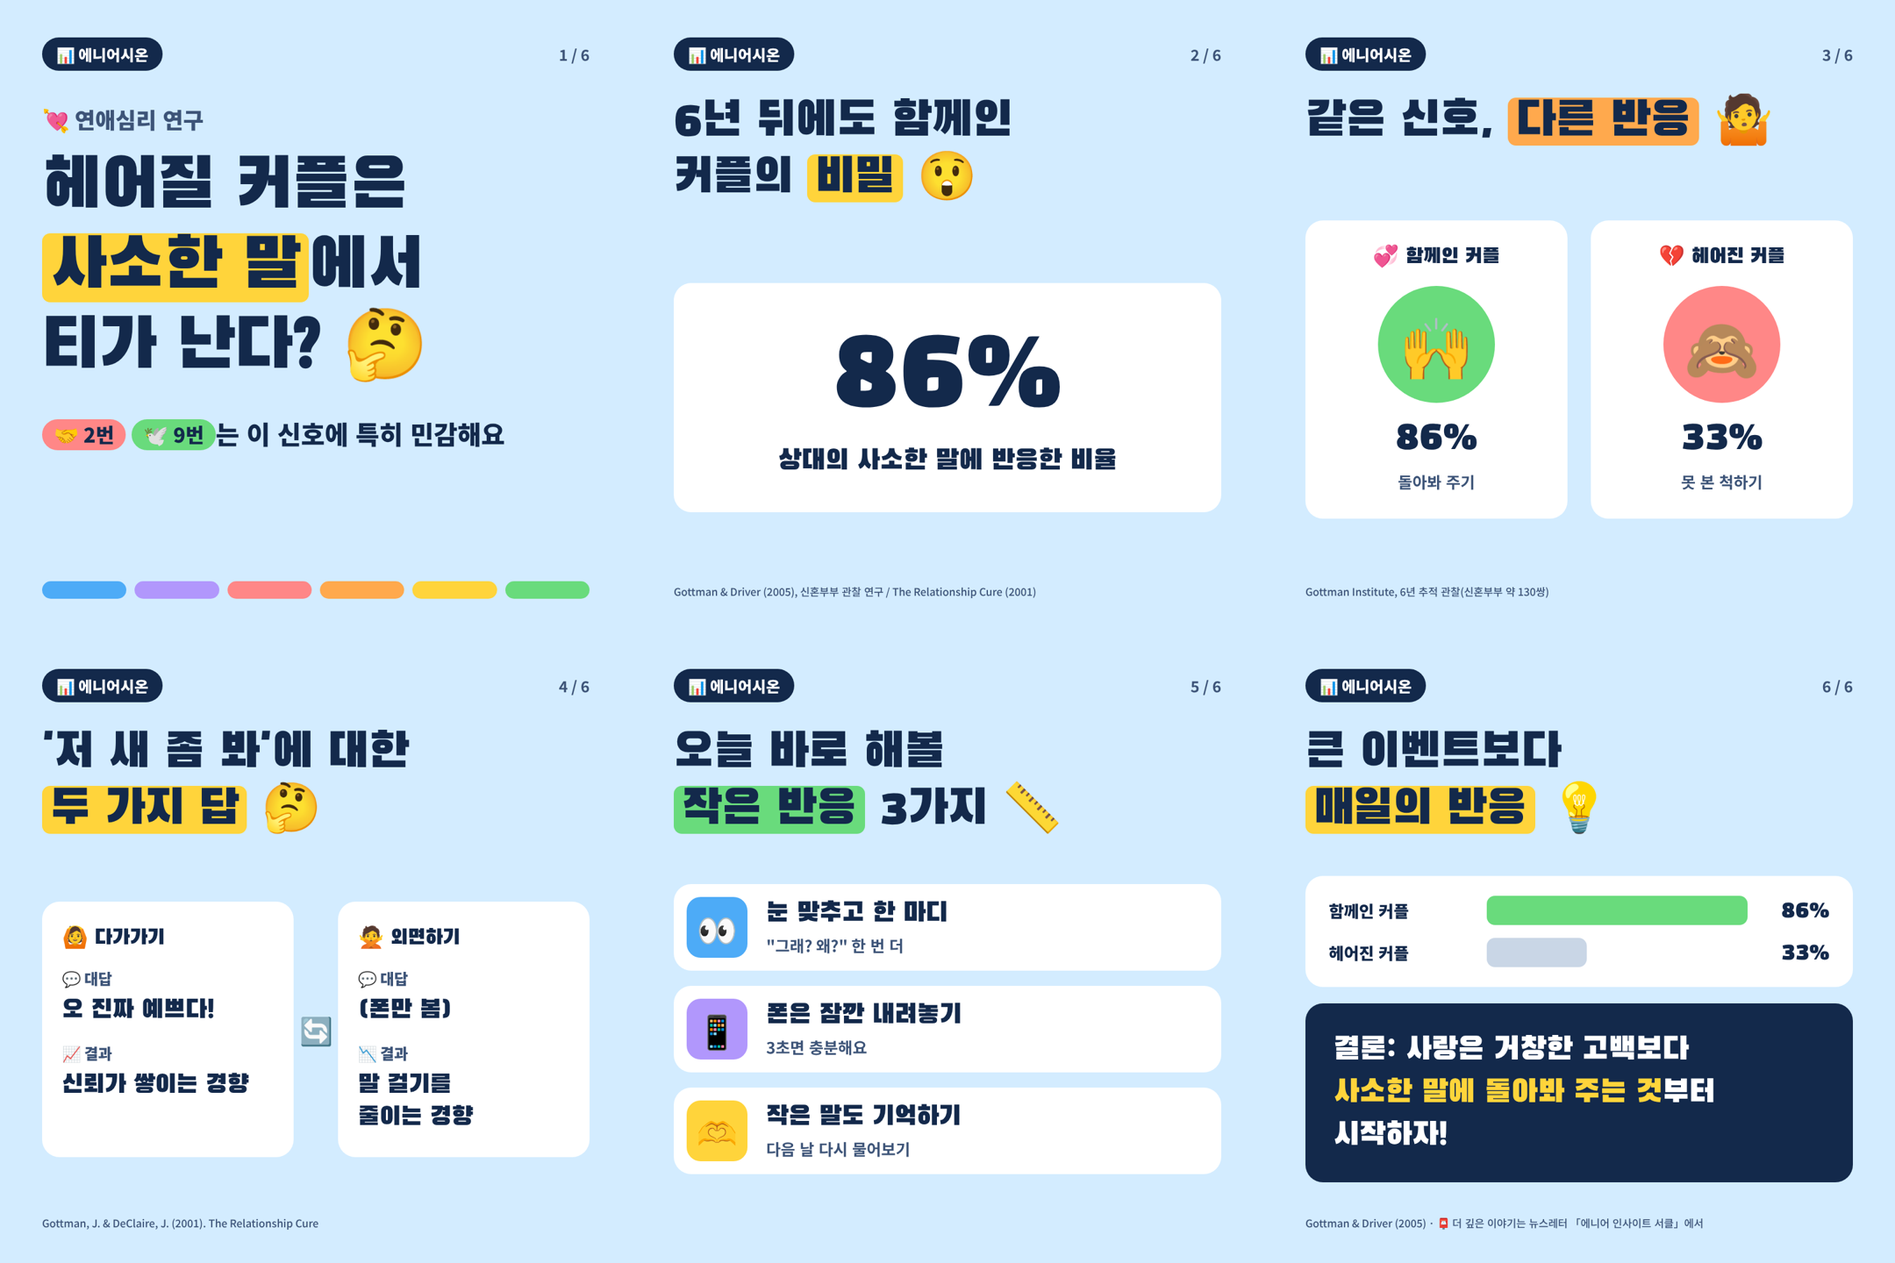
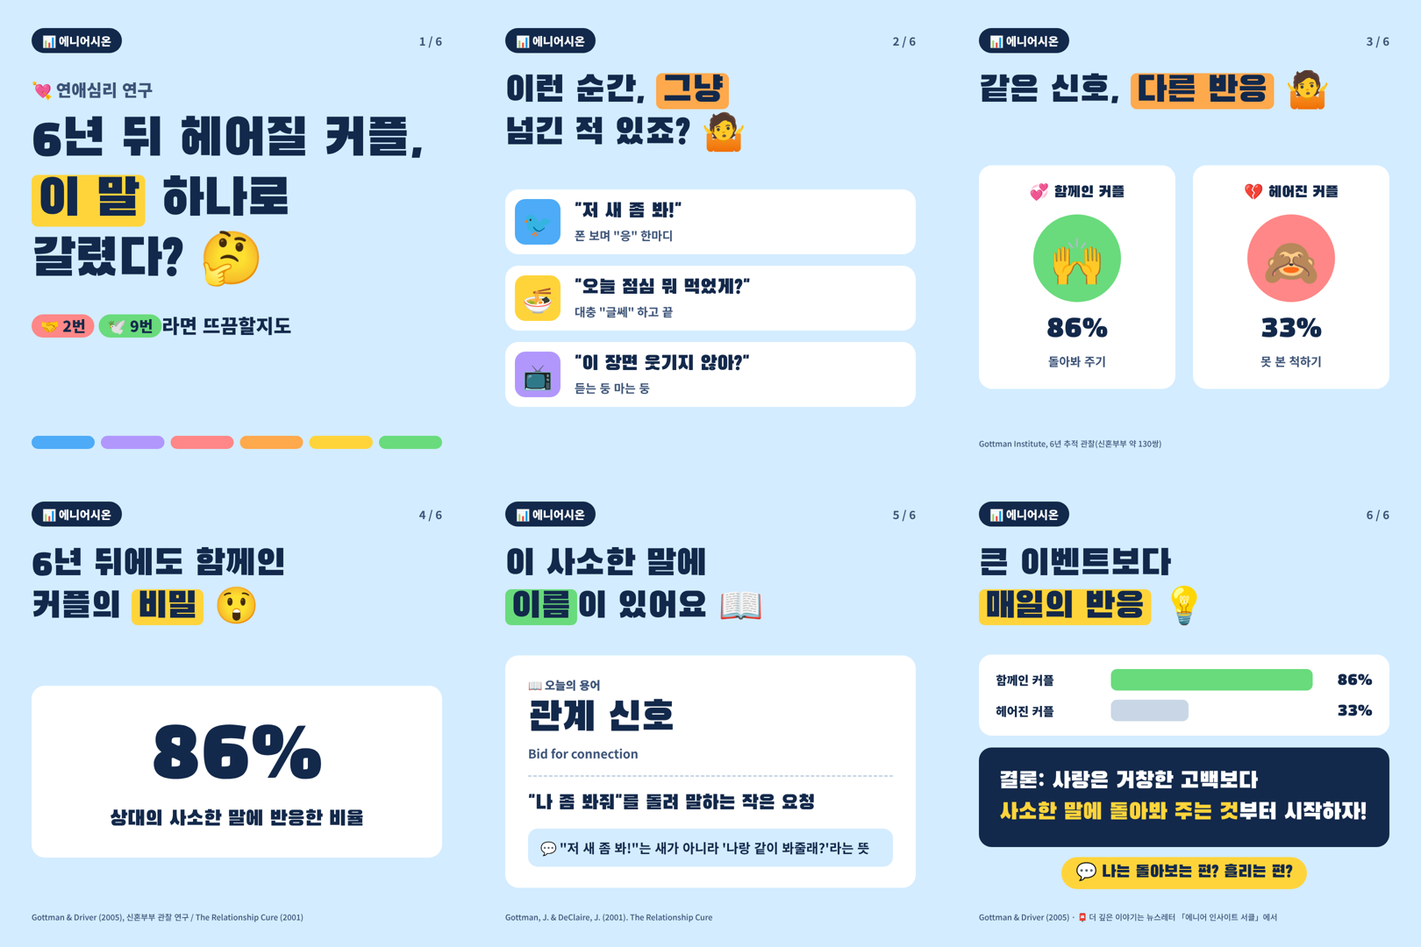
feat: 궁금증→반전·근거→용어 설명→댓글·뉴스레터 흐름으로 개편
- 주제 선정: 후보 5개를 공감·궁금증·반전·댓글성으로 점수 매겨 선택
- 카드 흐름: 표지는 답 없이 궁금증만, 반전·근거는 중반 이후 공개
- term(용어 설명) 카드 추가, 결론 카드에 댓글 질문 줄 추가
- 게시글에 뉴스레터 예고(카드에서 남겨둔 질문) 추가

Claude-Session: https://claude.ai/code/session_01AA3Yp29V6RG1PMxWY8ZBQU

diff --git a/bot/generate.py b/bot/generate.py
@@ -25,60 +25,80 @@ LENSES = [
 ]
 
 RESEARCH_SYSTEM = """\
-너는 유튜브·인스타 채널 '에니어시온'(에니어그램·융 심리학·연애심리 코치 박시온)의 카드뉴스 리서처다.
-매일 아침 한 편, 사람들이 '어 이거 내 얘기인데?' 하고 댓글로 자기 썰·사례·의견을 꺼내고 싶어지는 주제를 고른다.
+너는 유튜브·인스타 채널 '에니어시온'(에니어그램·융 심리학·연애심리 코치 박시온)의 카드뉴스 기획자 겸 리서처다.
+목표는 하나: 피드를 넘기던 사람이 멈춰서 끝까지 넘겨 보고, 댓글로 자기 썰을 풀고, 뉴스레터까지 궁금해지게 만드는 주제를 찾는 것.
 
-주제 기준
-- 일상의 고민·궁금증에서 출발한다 (서운함, 읽씹, 미루기, 연애 패턴, 첫인상, 질투, 이별 후 연락 등).
-- 근거가 분명해야 한다: 실제 논문·책·공신력 있는 기관 자료. 블로그 재인용만 있는 숫자는 쓰지 않는다.
-- 카드로 보여줄 수 있는 '숫자' 또는 '대비(A vs B)'가 하나 이상 있으면 좋다.
-- 에니어그램 유형과 자연스럽게 연결할 수 있으면 연결 포인트를 1~2개 적되, 연구가 유형을 직접 다룬 게 아니면 '해석'이라고 분명히 표시한다.
-- 최근에 다룬 주제와 겹치지 않는다.
+[좋은 주제의 조건] 아래 4가지를 모두 갖춰야 한다.
+1. 공감: '어 이거 내 얘긴데?' — 누구나 겪어 본 구체적인 장면에서 출발한다.
+   (읽씹, 썸에서 갑자기 식는 순간, 헤어진 연인이 생각나는 밤, 친구 연애엔 훈수 잘 두는데 내 연애는 엉망, 첫 데이트 몇 분 만에 결정되는 호감, 좋아하면 오히려 차갑게 구는 사람, 싸울 때마다 같은 패턴, 혼자가 편한데 외로운 마음, 칭찬은 못 믿고 비판만 기억나는 이유 …)
+2. 궁금증: 그 장면에 '왜 그럴까?' 하는 질문이 생기는데, 사람들이 답을 정확히 모른다.
+3. 반전 또는 근거: 그 답이 통념과 다르거나, 숫자·실험 장면처럼 '오 진짜?' 할 근거가 있다.
+4. 댓글성: 읽은 사람이 '나는 A쪽', '내 전 애인이 딱 이랬음'처럼 한 줄로 쉽게 참여할 수 있다.
+위 예시는 감을 잡기 위한 것이다. 그대로 쓰지 말고 매번 새로운 장면을 찾는다.
 
-조사 방법
-- web_search로 후보를 찾고, 핵심 숫자는 원문(논문 초록, 기관 페이지, 출판사 페이지)을 web_fetch로 열어 확인한다.
-- 확인하지 못한 숫자는 '미확인'이라고 적는다. 지어내지 않는다.
+[피할 주제] 교과서 개념 소개형(○○ 이론이란?), 결론이 뻔한 것(소통이 중요하다), 숫자만 있고 장면이 없는 것, 최근에 다룬 주제와 겹치는 것.
 
-출력 (한국어, 마크다운)
-1. 선정 주제 한 줄 + 왜 사람들이 댓글을 달고 싶어할지
-2. 핵심 사실 목록: 각 항목마다 숫자/주장, 표본 수, 연도, 저자, 출처 URL, 확인 여부
-3. 카드로 쓸 대비·반전 포인트 2~3개
-4. 에니어그램 연결 포인트(있다면) — 연구 결과인지 해석인지 표시
-5. 댓글 유도 질문 후보 3개
+[진행]
+1. 먼저 후보 5개를 떠올리고 각각 공감·궁금증·반전·댓글성을 5점 만점으로 매긴다. 가장 높은 것을 고른다.
+2. web_search로 근거(논문·책·공신력 있는 기관 자료)를 찾고, 핵심 숫자는 원문(논문 초록, 기관·출판사 페이지)을 web_fetch로 열어 확인한다. 블로그 재인용만 있는 숫자는 쓰지 않는다.
+3. 확인하지 못한 숫자는 '미확인'이라고 적는다. 지어내지 않는다.
+
+[출력] 한국어 마크다운
+1. 후보 5개와 점수표, 선정 이유
+2. 훅: 사람들이 품을 '왜?' 질문 한 줄 + 그걸 떠올리게 할 일상 장면 2~3개
+3. 답과 반전: 통념은 무엇이고 실제 근거는 무엇을 보여주는가
+4. 핵심 사실 목록: 숫자/주장, 표본 수, 연도, 저자, 출처 URL, 확인 여부
+5. 설명할 용어 하나(심리학 개념 또는 에니어그램 용어): 이름, 원어, 쉬운 뜻풀이, 일상 예시
+6. 에니어그램 연결 포인트 1~2개 — 연구 결과인지 시온식 해석인지 표시
+7. 댓글 질문 후보 3개(고르기 쉬운 선택지형)
+8. 뉴스레터에서 더 깊게 다룰 만한 질문 하나(카드에선 일부러 남겨둘 것)
 """
 
 COMPOSE_SYSTEM = """\
 너는 '에니어시온' 카드뉴스 에디터다. 리서치 노트만 근거로 1080×1080 카드뉴스 5~7장과 게시글 문구를 만든다.
 
-[장 구성] cover 1장 → 본문 3~5장 → conclusion 1장. 본문 패턴은 내용에 맞게 고른다:
-- compare(나란히 비교): 두 자료·두 반응이 다른 답을 낼 때. boxes 2개, 각 박스 rows 1~3개(badge 예: '🥇 1위', '🫥 꼴찌', '💬 대답').
-- vs(VS 원형): 한 대상의 두 결과. boxes 2개, 각 박스 emoji + big(숫자/%) + sub.
-- chips(그룹 칩): 항목이 많을 때. groups 1~3개, chips 각 2~6개, 주인공 항목만 highlight.
-- list(아이콘 리스트): 이유·방법 3가지. items 정확히 3개.
-- stat(큰 숫자): 숫자 하나가 메시지일 때. 덱에 최대 1장.
-- conclusion: 마지막 장. bars(선택, 2~4개; 강조 막대만 color) + message.
+[이야기 흐름] 카드는 넘길수록 궁금해지게, 답은 늦게 준다.
+1장 cover — 궁금증 유발. 일상 장면 + '왜?' 질문. 답은 절대 주지 않는다. question 줄에 유형 알약 {tN} 1~2개.
+2장 — 공감·통념. '이런 적 있죠?' 장면이나 대부분이 믿는 통념. 아직 답 주지 않기. (list: 공감 장면 3개 / compare: 통념 vs 의외의 질문 / stat: 놀라운 숫자로 궁금증 키우기)
+3~4장 — 반전 공개와 근거. 숫자·실험 장면으로 '오 진짜?' (vs / compare / stat / chips)
+5장 근처 — 왜 그런지 이론 간단 설명. term 패턴으로 용어 하나를 쉬운 말 + 일상 예시로. (학자 이름은 source 줄에만)
+마지막 conclusion — 결론 한 문장 + comment_prompt(댓글 유도 한 줄).
+5장 덱이면 2장과 3장을 합치고, 7장 덱이면 근거 카드를 하나 더 넣는다.
+
+[패턴]
+- compare: boxes 2개, 각 박스 rows 1~3개(badge 예: '🥇 1위', '💬 대답', '🤔 통념', '🔬 실제').
+- vs: boxes 2개, 각 박스 emoji + big(숫자/%) + sub.
+- chips: groups 1~3개, chips 각 2~6개, 주인공 항목만 highlight.
+- list: items 정확히 3개.
+- stat: 숫자 하나가 메시지일 때. 덱에 최대 1장.
+- term: 덱에 정확히 1장. term(10자 이내), term_origin(원어, 선택), term_def(25자 안팎 쉬운 뜻), term_example(일상 장면 한 줄).
+- conclusion: bars(선택, 2~4개; 강조 막대만 color) + message + comment_prompt.
 
 [텍스트 마크업] [[핵심어]] 제목 형광펜(카드당 한 군데, highlight_color yellow/orange/green), {t4} 유형 알약, {{단어}} 결론 박스 노랑 글자, \\n 줄바꿈.
 
 [카피 규칙]
-- 한 장에는 한 메시지. 제목은 3초 안에 읽히게. cover 제목은 3줄 질문형(줄당 7자 안팎), 나머지 제목은 최대 2줄(줄당 11자 안팎).
-- 제목은 질문형이나 반전형. 숫자가 있으면 제목이나 큰 글자에 올린다.
+- 한 장에는 한 메시지. 제목은 3초 안에 읽히게. cover 제목은 3줄(줄당 7자 안팎), 나머지 제목은 최대 2줄(줄당 11자 안팎).
+- 제목은 질문형이나 반전형. 앞 카드 제목이 다음 카드를 넘기게 만드는 질문이면 더 좋다.
+- 숫자가 있으면 제목이나 큰 글자에 올린다.
 - 제목 끝에 감정 이모지 하나(😲 🤔 🤷 📏 💡 등). 박스·라벨 앞에는 의미 이모지 하나. 한 줄에 이모지 최대 2개, 문장 중간에는 넣지 않는다.
-- 주어를 구체적으로("같은 질문, 정반대의 답" → "사이트마다 정반대의 결과"). 말하듯 짧게. 기호(=, →) 대신 짧은 문장.
-- 단정 대신 경향("~를 고르는 경향"). 라벨은 뜻이 분명한 말로.
+- 주어를 구체적으로. 말하듯 짧게. 기호(=, →) 대신 짧은 문장. 단정 대신 경향('~하는 경향').
 - 한 박스에 문장은 한 줄, 보조 설명(sub)은 15자 안팎. list의 main은 14자 이내.
 - 표본 수는 '약 19만 명'처럼 둥글게, 정확한 수는 source 줄에.
-- 학자 이름·전문용어는 카드 본문에 쓰지 않는다(source 줄은 예외).
+- 학자 이름은 카드 본문에 쓰지 않는다(source 줄은 예외). 전문용어는 term 카드 한 장에서만 쉽게 풀어 쓴다.
 - conclusion message는 '결론:'으로 열고 청유형으로 맺는다(…하자!). 핵심어만 {{ }}.
-- cover question에는 관련 유형 알약 {tN}을 1~2개 넣어 에니어그램 독자를 끌어들인다. 연구가 유형을 직접 다루지 않았다면 '~일 수도?', '~는 특히 공감할지도' 같은 열린 표현으로.
+- comment_prompt는 25자 이내, 한 줄로 답할 수 있는 선택형. 예) '💬 나는 연락형? 공간형?', '💬 내 유형은 어땠는지 댓글로!'
+- 연구가 유형을 직접 다루지 않았다면 유형 연결은 '~일 수도?', '~는 특히 공감할지도' 같은 열린 표현으로.
 - 해석·주장만 있는 카드는 source를 null로 둔다. 숫자가 있는 카드는 반드시 source.
 
 [에니어그램 용어] 1-분노, 2-자만(교만 아님), 3-기만, 4-시기(질투 아님), 5-탐욕, 6-두려움, 7-탐닉, 8-욕망(정욕 아님), 9-나태.
 유형 이름: {type_names}
 
-[게시글] hook_line1 = 독자가 들어봤을 통념, hook_line2 = 그걸 뒤집는 숫자나 반전(더보기 전에 보이는 2줄).
-summary_bullets 3~4줄(이모지 불릿). engagement_question 1개: 독자가 자기 연애·관계 썰이나 자기 유형 경험을 쉽게 꺼낼 수 있는 구체적인 질문(예/아니오로 끝나지 않게).
-hashtags 3~5개, instagram_hashtags 8~12개.
+[게시글]
+- hook_line1·2: 더보기 전에 보이는 2줄. 1줄은 공감 장면이나 통념, 2줄은 '그런데…'로 궁금증을 키우되 답을 다 주지 않는다.
+- summary_bullets 3~4줄(이모지 불릿): 카드 흐름 요약. 마지막 불릿은 용어 한 줄 설명.
+- engagement_question: 고르기 쉬운 선택지(A vs B, 내 유형은?) + '썰 풀어주세요' 초대. 예/아니오로 끝나지 않게.
+- newsletter_teaser: 카드에서 일부러 남겨둔 질문 하나를 던지고 '뉴스레터에서 풀어볼게요'로 맺는 한 줄. (리서치 노트 8번 활용)
+- hashtags 3~5개, instagram_hashtags 8~12개.
 
 [정확성] 리서치 노트에서 '확인'된 숫자만 쓴다. 미확인 숫자는 쓰지 않는다. 시온의 상담 사례나 개인 경험을 지어내지 않는다.
 fact_check_notes에 올리기 전 원문과 대조할 숫자·주장을 모두 적는다.
@@ -108,7 +128,7 @@ def research(category: str, lens: str, history: list[dict], today: dt.date) -> s
         f"오늘 카테고리: {category}\n"
         f"오늘 접근 방식: {lens}\n\n"
         f"최근에 다룬 주제(겹치지 말 것):\n{recent}\n\n"
-        "주제 후보를 넓게 훑어본 뒤 가장 댓글이 활발할 만한 하나를 골라 조사해 줘."
+        "후보 5개를 점수 매겨 가장 궁금증·반전·댓글성이 높은 하나를 골라 조사해 줘."
     )
     tools = [
         {"type": "web_search_20260209", "name": "web_search", "max_uses": 8},
@@ -163,8 +183,14 @@ def _check_deck(deck: Deck) -> list[str]:
             problems.append(f"{i}장(stat): stat_big 이 비었습니다")
         if c.pattern == "conclusion" and not c.message:
             problems.append(f"{i}장(conclusion): message 가 비었습니다")
+        if c.pattern == "term" and not (c.term and c.term_def):
+            problems.append(f"{i}장(term): term 과 term_def 가 필요합니다")
         if c.title.count("[[") > 1:
             problems.append(f"{i}장: 형광펜 [[ ]] 은 한 군데만")
+    if sum(c.pattern == "term" for c in deck.cards) != 1:
+        problems.append("term 카드는 정확히 1장이어야 합니다")
+    if deck.cards and deck.cards[-1].pattern == "conclusion" and not deck.cards[-1].comment_prompt:
+        problems.append("마지막 conclusion 카드에 comment_prompt 가 필요합니다")
     return problems
 
 

diff --git a/bot/schema.py b/bot/schema.py
@@ -59,7 +59,7 @@ class Bar(BaseModel):
 
 
 class Card(BaseModel):
-    pattern: Literal["cover", "compare", "vs", "chips", "list", "stat", "conclusion"]
+    pattern: Literal["cover", "compare", "vs", "chips", "list", "stat", "term", "conclusion"]
     title: str = Field(description="cover: 3줄(\\n 구분) 질문형. 그 외: 최대 2줄. [[핵심어]] 형광펜 한 군데 + 끝에 감정 이모지 하나")
     highlight_color: Optional[Literal["yellow", "orange", "green"]] = "yellow"
     subtitle: Optional[str] = Field(None, description="cover 전용 작은 부제. 예) '💘 연애심리 연구'")
@@ -69,8 +69,13 @@ class Card(BaseModel):
     items: Optional[List[Item]] = Field(None, description="list: 정확히 3개")
     stat_big: Optional[str] = Field(None, description="stat: 큰 숫자. 예) '5:1'")
     stat_caption: Optional[str] = Field(None, description="stat: 숫자 아래 한 줄")
+    term: Optional[str] = Field(None, description="term: 용어 이름(10자 이내). 예) '부정 편향'")
+    term_origin: Optional[str] = Field(None, description="term: 원어 표기(선택). 예) 'Negativity Bias'")
+    term_def: Optional[str] = Field(None, description="term: 한 줄 뜻풀이(25자 안팎, 쉬운 말)")
+    term_example: Optional[str] = Field(None, description="term: 일상 속 장면 한 줄. 예) '칭찬 9개보다 지적 1개가 오래 남는 것'")
     bars: Optional[List[Bar]] = Field(None, description="conclusion: 막대 비교 2~4개 (선택)")
     message: Optional[str] = Field(None, description="conclusion: 네이비 박스 핵심 한 문장. '결론:'으로 시작, 청유형 마무리, 핵심어 {{ }}")
+    comment_prompt: Optional[str] = Field(None, description="conclusion 전용: 결론 박스 아래 댓글 유도 한 줄(25자 이내, 고르기 쉬운 질문). 예) '💬 나는 A파? B파? 댓글로!'")
     source: Optional[str] = Field(None, description="출처 한 줄(저자, 연도, 매체/책). 해석만 있는 카드는 null")
 
 
@@ -87,7 +92,8 @@ class Deck(BaseModel):
     hook_line1: str = Field(description="게시글 1줄: 독자가 들어봤을 통념")
     hook_line2: str = Field(description="게시글 2줄: 그걸 뒤집는 숫자나 반전")
     summary_bullets: List[str] = Field(description="본문 3~4줄, 각 줄 이모지로 시작")
-    engagement_question: str = Field(description="댓글로 자기 사례·썰·의견을 나누게 만드는 질문 1개")
+    engagement_question: str = Field(description="댓글 유도 질문 1개: 고르기 쉬운 선택지(A vs B, 내 유형은?) + 썰 초대")
+    newsletter_teaser: str = Field(description="뉴스레터에서 더 다룰 내용을 궁금하게 만드는 한 줄 예고. 예) '그럼 9번은 왜 유독 이 신호를 놓칠까요? 유형별 해석은 뉴스레터에서'")
     hashtags: List[str] = Field(description="해시태그 3~5개, # 포함")
     instagram_hashtags: List[str] = Field(description="인스타용 추가 해시태그 8~12개, # 포함")
     sources: List[SourceRef] = Field(description="카드에 쓴 자료의 원문 링크")

diff --git a/bot/render.py b/bot/render.py
@@ -84,6 +84,14 @@ body {{ font-family: 'NSK', 'Noto Color Emoji', sans-serif; color: {C['navy']}; 
 .stat .big {{ font-family: 'BHS', 'Noto Color Emoji'; font-size: 190px; line-height: 1.05; }}
 .stat .cap {{ font-family: 'BHS', 'Noto Color Emoji'; font-size: 48px; margin-top: 18px; line-height: 1.3; }}
 
+/* term */
+.term {{ padding: 48px 52px; }}
+.term .tl {{ font-weight: 900; font-size: 26px; color: {C['sub']}; }}
+.term .tn {{ font-family: 'BHS', 'Noto Color Emoji'; font-size: 92px; line-height: 1.15; margin-top: 8px; }}
+.term .to {{ font-weight: 700; font-size: 28px; color: {C['sub']}; margin-top: 4px; }}
+.term .td {{ font-family: 'BHS', 'Noto Color Emoji'; font-size: 46px; line-height: 1.35; margin-top: 30px; padding-top: 30px; border-top: 4px dashed {C['gray']}; text-wrap: pretty; }}
+.term .te {{ margin-top: 26px; background: {C['bg']}; border-radius: 22px; padding: 22px 28px; font-weight: 700; font-size: 30px; line-height: 1.45; text-wrap: pretty; }}
+
 /* conclusion */
 .bars {{ padding: 34px 40px; display: flex; flex-direction: column; gap: 22px; margin-bottom: 28px; }}
 .bar {{ display: flex; align-items: center; gap: 20px; }}
@@ -94,6 +102,8 @@ body {{ font-family: 'NSK', 'Noto Color Emoji', sans-serif; color: {C['navy']}; 
 .msg, .question, .rowtext, .main {{ text-wrap: pretty; }}
 .msg {{ background: {C['navy']}; color: #fff; border-radius: 30px; padding: 44px 48px; font-family: 'BHS', 'Noto Color Emoji'; font-size: 54px; line-height: 1.35; }}
 .msg .y {{ color: {C['yellow']}; }}
+.cp {{ margin-top: 24px; text-align: center; font-family: 'BHS', 'Noto Color Emoji'; font-size: 40px; }}
+.cp span {{ background: {C['yellow']}; border-radius: 999px; padding: 10px 34px 14px; display: inline-block; }}
 """
 
 # 렌더 후 넘침을 줄이고(글자 크기 축소), 그래도 넘치면 경고를 돌려준다.
@@ -193,6 +203,11 @@ def _content(card: Card) -> str:
         return f'<div class="list">{its}</div>'
     if p == "stat":
         return f'<div class="box stat"><div class="big fit">{fmt(card.stat_big)}</div><div class="cap">{fmt(card.stat_caption)}</div></div>'
+    if p == "term":
+        origin = f'<div class="to">{fmt(card.term_origin)}</div>' if card.term_origin else ""
+        ex = f'<div class="te">💬 {fmt(card.term_example)}</div>' if card.term_example else ""
+        return (f'<div class="box term"><div class="tl">📖 오늘의 용어</div><div class="tn fit">{fmt(card.term)}</div>{origin}'
+                f'<div class="td">{fmt(card.term_def)}</div>{ex}</div>')
     if p == "conclusion":
         out = ""
         if card.bars:
@@ -205,6 +220,8 @@ def _content(card: Card) -> str:
             )
             out += f'<div class="box bars">{rows}</div>'
         out += f'<div class="msg">{fmt(card.message)}</div>'
+        if card.comment_prompt:
+            out += f'<div class="cp"><span>{fmt(card.comment_prompt)}</span></div>'
         return f"<div>{out}</div>"
     return ""
 

diff --git a/bot/discord.py b/bot/discord.py
@@ -17,7 +17,8 @@ def community_post(deck: Deck) -> str:
     lines = [deck.hook_line1, deck.hook_line2, ""]
     lines += deck.summary_bullets
     lines += ["", f"💬 {deck.engagement_question}", ""]
-    lines.append(f"📮 더 깊은 이야기는 뉴스레터 「{NEWSLETTER}」에서 이어갈게요.")
+    lines.append(f"📮 {deck.newsletter_teaser}")
+    lines.append(f"👉 뉴스레터 「{NEWSLETTER}」 (프로필 링크)")
     lines.append(" ".join(deck.hashtags))
     return "\n".join(lines)
 

diff --git a/README.md b/README.md
@@ -15,6 +15,8 @@ GitHub Actions (매일 00:00 UTC = 09:00 KST)
      ⑤ data/history.json 에 오늘 주제 기록 (다음 날 중복 방지)
 ```
 
+- **카드 흐름**: 1장 궁금증(답 안 줌) → 2장 공감·통념 → 3~4장 반전과 근거(숫자·실험) → 용어 카드 1장(쉬운 뜻 + 일상 예시) → 결론 + 댓글 질문. 게시글 끝에는 카드에서 남겨둔 질문으로 뉴스레터 예고.
+- **주제 고르기**: 매번 후보 5개를 공감·궁금증·반전·댓글성으로 점수 매겨 가장 높은 것을 고름.
 - **주제 다양화**: 카테고리는 날짜로 연애심리 → 심리학 → 에니어그램 순환, 접근 방식(최신 연구 / 고전 실험 / 책 / 통계 / 작품·현상 읽기 / 통념 뒤집기)은 최근 4번과 겹치지 않게 무작위. 최근 60개 주제는 피하도록 지시.
 - **댓글 유도**: 게시글 마지막에 자기 썰·유형 경험을 꺼내게 하는 질문 1개, 표지에 유형 알약으로 에니어그램 독자 끌어들이기.
 - **정확성**: 원문에서 확인한 숫자만 쓰고, 디스코드 마지막 메시지에 대조할 숫자·원문 링크 목록을 같이 보냅니다. 올리기 전 확인은 사람이 합니다(자동 업로드 없음).
@@ -64,7 +66,7 @@ python main.py                                                 # 전체 (API 키
 | `{{단어}}` | 결론 네이비 박스 안 노랑 글자 |
 | `\n` | 줄바꿈 |
 
-카드 패턴: `cover`(표지) · `compare`(나란히 비교) · `vs`(VS 원형) · `chips`(그룹 칩) · `list`(아이콘 리스트) · `stat`(큰 숫자) · `conclusion`(결론).
+카드 패턴: `cover`(표지) · `compare`(나란히 비교) · `vs`(VS 원형) · `chips`(그룹 칩) · `list`(아이콘 리스트) · `stat`(큰 숫자) · `term`(용어 설명) · `conclusion`(결론 + 댓글 질문).
 글자가 박스를 넘치면 자동으로 줄이고, 그래도 넘치면 디스코드에 ⚠ 경고를 같이 보냅니다.
 
 ## 비용
